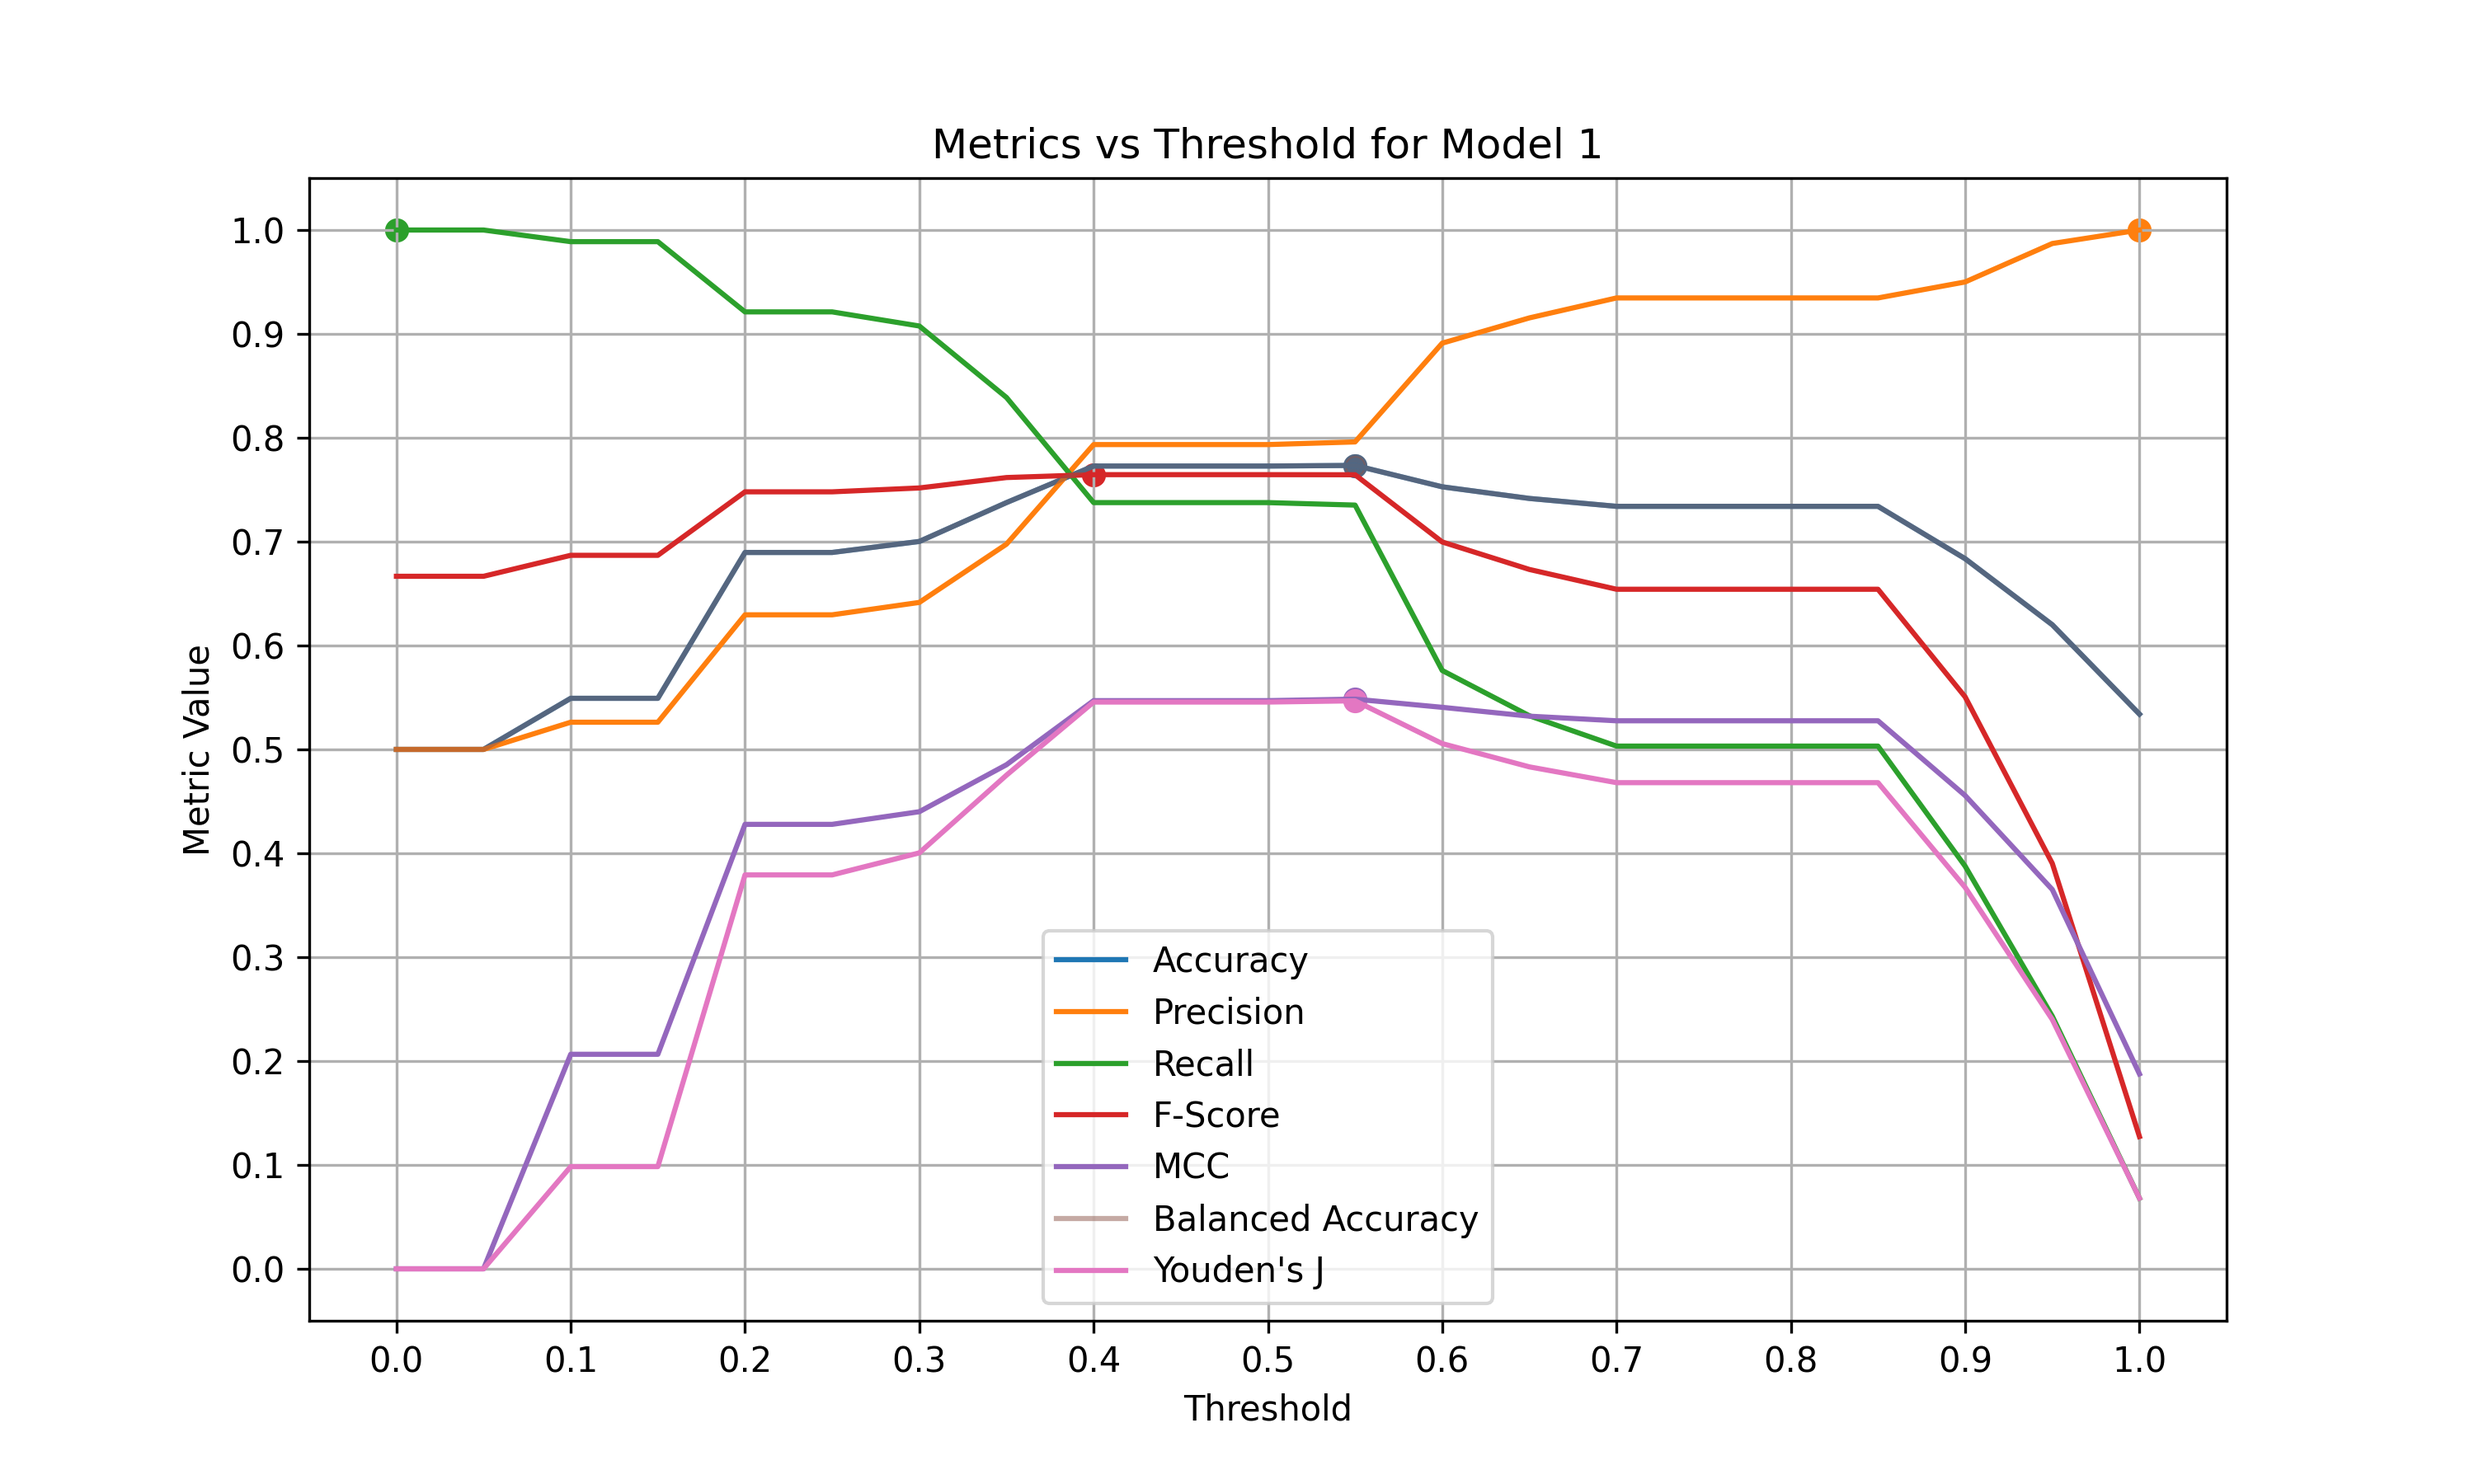
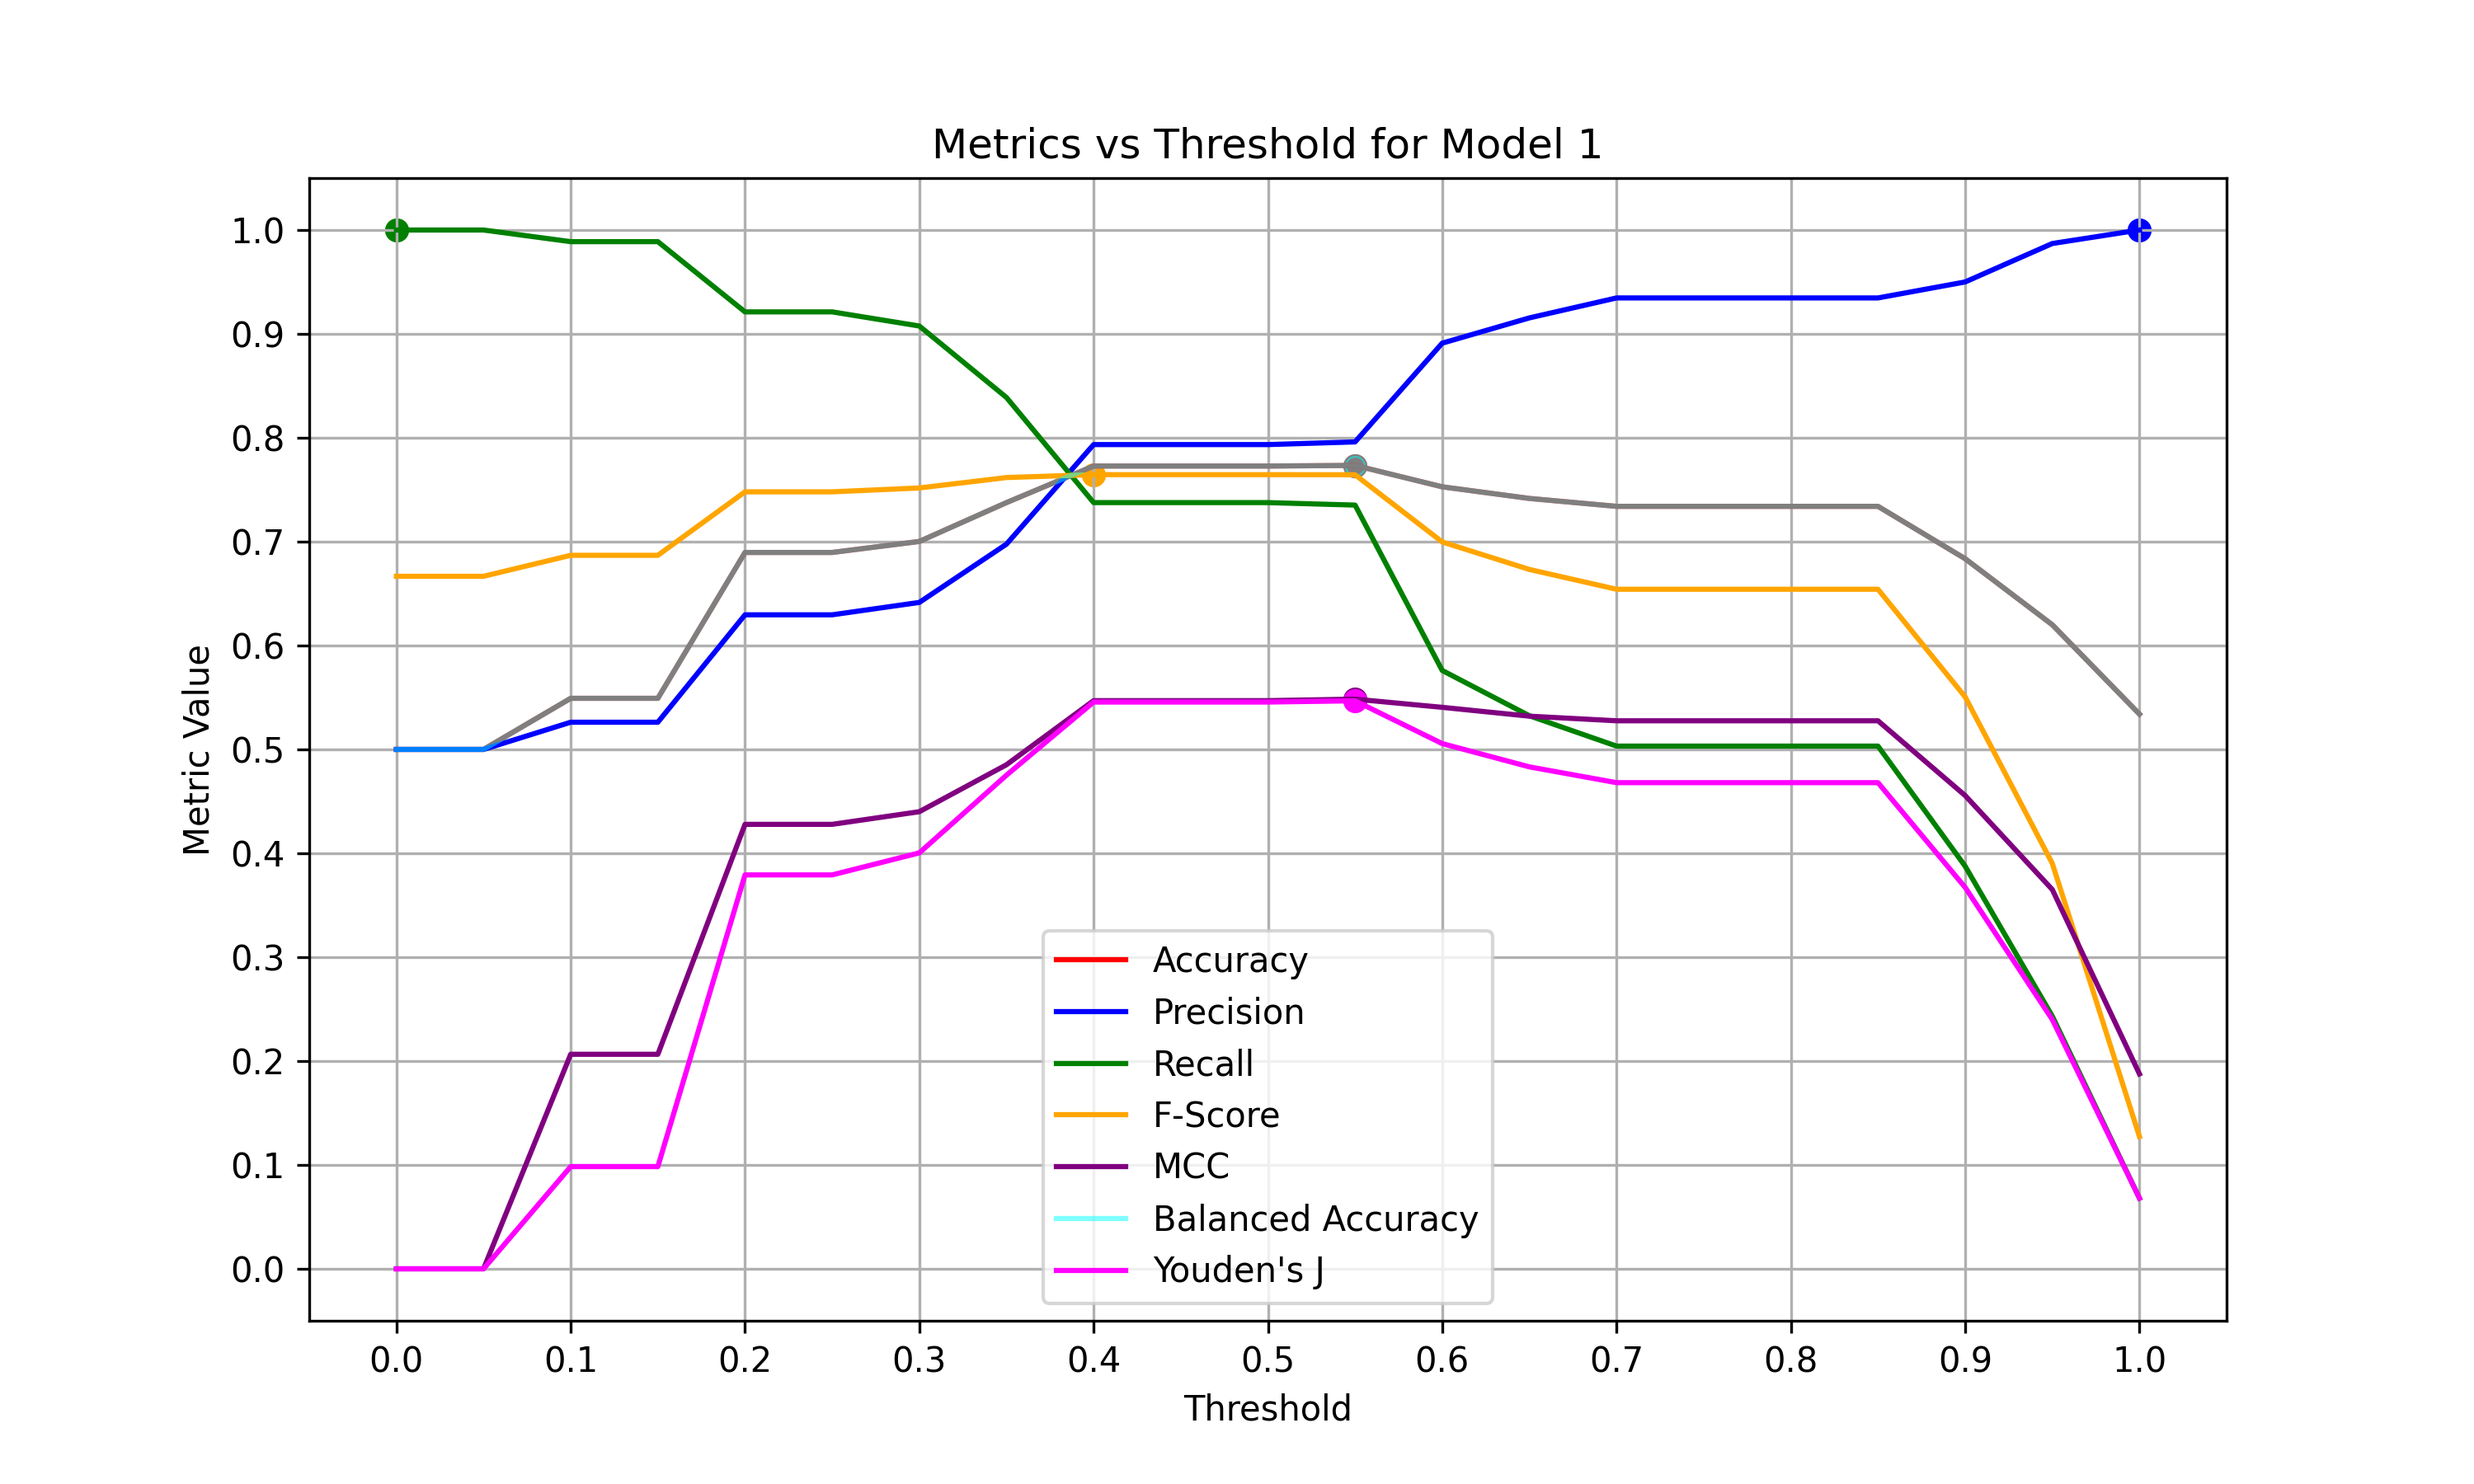
before updating optimal PR

diff --git a/лаб2/lab2.py b/лаб2/lab2.py
@@ -1,6 +1,7 @@
 import math
 
 import pandas as pd
+import numpy as np
 
 import matplotlib.pyplot as plt
 
@@ -258,36 +259,60 @@ auc_roc_m2 = auc(fpr_m2, tpr_m2)
 print("Area Under Curve for Receiver Operation Curve model 1:", auc_roc_m1)
 print("Area Under Curve for Receiver Operation Curve model 2:", auc_roc_m2)
 
-
-
 # 3rd. task pt. b
+
+colors = ['red', 'blue', 'green', 'orange', 'purple', 'cyan', 'magenta']
 
 plt.figure(figsize=(10, 6))
 ticks = get_x_values(0, 0.1)
 plt.xticks(ticks)
 plt.yticks(ticks)
 
-plt.plot(x_values, accuracy_m1, label='Accuracy', alpha=1)
+plt.plot(x_values, accuracy_m1, color=colors[0], label='Accuracy', alpha=1)
+plt.plot(x_values, precision_m1, color=colors[1], label='Precision')
+plt.plot(x_values, recall_m1, color=colors[2], label='Recall')
+plt.plot(x_values, f_scores_m1, color=colors[3], label='F-Score')
+plt.plot(x_values, mcc_m1, color=colors[4], label='MCC')
+plt.plot(x_values, balanced_acc_m1, color=colors[5], label='Balanced Accuracy', alpha=0.5)
+plt.plot(x_values, youden_j_m1, color=colors[6], label="Youden's J")
 
-plt.plot(x_values, precision_m1, label='Precision')
+max_accuracy_m1_value = max(accuracy_m1)
+max_accuracy_m1_threshold = x_values[accuracy_m1.index(max_accuracy_m1_value)]
+plt.scatter(max_accuracy_m1_threshold, max_accuracy_m1_value, marker='o', alpha=1, color=colors[0])
 
-plt.plot(x_values, recall_m1, label='Recall')
+max_precision_m1_value = max(precision_m1)
+max_precision_m1_threshold = x_values[precision_m1.index(max_precision_m1_value)]
+plt.scatter(max_precision_m1_threshold, max_precision_m1_value, marker='o', color=colors[1])
 
-plt.plot(x_values, f_scores_m1, label='F-Score')
+max_recall_m1_value = max(recall_m1)
+max_recall_m1_threshold = x_values[recall_m1.index(max_recall_m1_value)]
+plt.scatter(max_recall_m1_threshold, max_recall_m1_value, marker='o', color=colors[2])
 
-plt.plot(x_values, mcc_m1, label='MCC')
+max_f_scores_m1_value = max(f_scores_m1)
+max_f_scores_m1_threshold = x_values[f_scores_m1.index(max_f_scores_m1_value)]
+plt.scatter(max_f_scores_m1_threshold, max_f_scores_m1_value, marker='o', color=colors[3])
 
-plt.plot(x_values, balanced_acc_m1, label='Balanced Accuracy', alpha = 0.5)
+max_mcc_m1_value = max(mcc_m1)
+max_mcc_m1_threshold = x_values[mcc_m1.index(max_mcc_m1_value)]
+plt.scatter(max_mcc_m1_threshold, max_mcc_m1_value, marker='o', color=colors[4])
 
-plt.plot(x_values, youden_j_m1, label="Youden's J")
+max_balanced_acc_m1_value = max(balanced_acc_m1)
+max_balanced_acc_m1_threshold = x_values[balanced_acc_m1.index(max_balanced_acc_m1_value)]
+plt.scatter(max_balanced_acc_m1_threshold, max_balanced_acc_m1_value, marker='o', alpha=0.5, color=colors[5])
 
-plt.scatter(x_values[accuracy_m1.index(max(accuracy_m1))], max(accuracy_m1), marker='o', alpha = 1)
-plt.scatter(x_values[precision_m1.index(max(precision_m1))], max(precision_m1), marker='o')
-plt.scatter(x_values[recall_m1.index(max(recall_m1))], max(recall_m1), marker='o')
-plt.scatter(x_values[f_scores_m1.index(max(f_scores_m1))], max(f_scores_m1), marker='o')
-plt.scatter(x_values[mcc_m1.index(max(mcc_m1))], max(mcc_m1), marker='o')
-plt.scatter(x_values[balanced_acc_m1.index(max(balanced_acc_m1))], max(balanced_acc_m1), marker='o', alpha = 0.5)
-plt.scatter(x_values[youden_j_m1.index(max(youden_j_m1))], max(youden_j_m1), marker='o')
+max_youden_j_m1_value = max(youden_j_m1)
+max_youden_j_m1_threshold = x_values[youden_j_m1.index(max_youden_j_m1_value)]
+plt.scatter(max_youden_j_m1_threshold, max_youden_j_m1_value, marker='o', color=colors[6])
+
+m1_optimal_thrasholds = {
+    'Accuracy': max_accuracy_m1_threshold,
+    'Precision': max_precision_m1_threshold,
+    'Recall': max_recall_m1_threshold,
+    'F-Scores': max_f_scores_m1_threshold,
+    'MCC': max_mcc_m1_threshold,
+    'Balanced Accuracy': max_balanced_acc_m1_threshold,
+    'Youden`s J': max_youden_j_m1_threshold
+}
 
 plt.xlabel('Threshold')
 plt.ylabel('Metric Value')
@@ -305,27 +330,51 @@ ticks = get_x_values(0, 0.1)
 plt.xticks(ticks)
 plt.yticks(ticks)
 
-plt.plot(x_values, accuracy_m2, label='Accuracy', alpha = 1)
+plt.plot(x_values, accuracy_m2, color=colors[0], label='Accuracy', alpha=1)
+plt.plot(x_values, precision_m2, color=colors[1], label='Precision')
+plt.plot(x_values, recall_m2, color=colors[2], label='Recall')
+plt.plot(x_values, f_scores_m2, color=colors[3], label='F-Score')
+plt.plot(x_values, mcc_m2, color=colors[4], label='MCC')
+plt.plot(x_values, balanced_acc_m2, color=colors[5], label='Balanced Accuracy', alpha=0.5)
+plt.plot(x_values, youden_j_m2, color=colors[6], label="Youden's J")
 
-plt.plot(x_values, precision_m2, label='Precision')
+max_accuracy_m2_value = max(accuracy_m2)
+max_accuracy_m2_threshold = x_values[accuracy_m2.index(max_accuracy_m2_value)]
+plt.scatter(max_accuracy_m2_threshold, max_accuracy_m2_value, marker='o', alpha=1, color=colors[0])
 
-plt.plot(x_values, recall_m2, label='Recall')
+max_precision_m2_value = max(precision_m2)
+max_precision_m2_threshold = x_values[precision_m2.index(max_precision_m2_value)]
+plt.scatter(max_precision_m2_threshold, max_precision_m2_value, marker='o', color=colors[1])
 
-plt.plot(x_values, f_scores_m2, label='F-Score')
+max_recall_m2_value = max(recall_m2)
+max_recall_m2_threshold = x_values[recall_m2.index(max_recall_m2_value)]
+plt.scatter(max_recall_m2_threshold, max_recall_m2_value, marker='o', color=colors[2])
 
-plt.plot(x_values, mcc_m2, label='MCC')
+max_f_scores_m2_value = max(f_scores_m2)
+max_f_scores_m2_threshold = x_values[f_scores_m2.index(max_f_scores_m2_value)]
+plt.scatter(max_f_scores_m2_threshold, max_f_scores_m2_value, marker='o', color=colors[3])
 
-plt.plot(x_values, balanced_acc_m2, label='Balanced Accuracy', alpha = 0.5)
+max_mcc_m2_value = max(mcc_m2)
+max_mcc_m2_threshold = x_values[mcc_m2.index(max_mcc_m2_value)]
+plt.scatter(max_mcc_m2_threshold, max_mcc_m2_value, marker='o', color=colors[4])
 
-plt.plot(x_values, youden_j_m2, label="Youden's J")
+max_balanced_acc_m2_value = max(balanced_acc_m2)
+max_balanced_acc_m2_threshold = x_values[balanced_acc_m2.index(max_balanced_acc_m2_value)]
+plt.scatter(max_balanced_acc_m2_threshold, max_balanced_acc_m2_value, marker='o', alpha=0.5, color=colors[5])
 
-plt.scatter(x_values[accuracy_m2.index(max(accuracy_m2))], max(accuracy_m2), marker='o', alpha = 1)
-plt.scatter(x_values[precision_m2.index(max(precision_m2))], max(precision_m2), marker='o')
-plt.scatter(x_values[recall_m2.index(max(recall_m2))], max(recall_m2), marker='o')
-plt.scatter(x_values[f_scores_m2.index(max(f_scores_m2))], max(f_scores_m2), marker='o')
-plt.scatter(x_values[mcc_m2.index(max(mcc_m2))], max(mcc_m2), marker='o')
-plt.scatter(x_values[balanced_acc_m2.index(max(balanced_acc_m2))], max(balanced_acc_m2), marker='o', alpha = 0.5)
-plt.scatter(x_values[youden_j_m2.index(max(youden_j_m2))], max(youden_j_m2), marker='o')
+max_youden_j_m2_value = max(youden_j_m2)
+max_youden_j_m2_threshold = x_values[youden_j_m2.index(max_youden_j_m2_value)]
+plt.scatter(max_youden_j_m2_threshold, max_youden_j_m2_value, marker='o', color=colors[6])
+
+m2_optimal_thrasholds = {
+    'Accuracy': max_accuracy_m2_threshold,
+    'Precision': max_precision_m2_threshold,
+    'Recall': max_recall_m2_threshold,
+    'F-Scores': max_f_scores_m2_threshold,
+    'MCC': max_mcc_m2_threshold,
+    'Balanced Accuracy': max_balanced_acc_m2_threshold,
+    'Youden`s J': max_youden_j_m2_threshold
+}
 
 plt.xlabel('Threshold')
 plt.ylabel('Metric Value')
@@ -334,4 +383,108 @@ plt.legend()
 
 plt.grid(True)
 plt.savefig('metrics_plot_model2.png', dpi=300)
+plt.show()
+
+# 3rd. task pt. c
+
+fig, ax = plt.subplots(figsize=(10, 6))
+
+class_0_objects_m1 = df.loc[df['GT'] == 0, 'Model_1_1']
+class_1_objects_m1 = df.loc[df['GT'] == 1, 'Model_1_1']
+
+ax.hist(class_0_objects_m1, bins=20, color='blue', alpha=0.5, label='Class 0 Objects')
+
+ax.hist(class_1_objects_m1, bins=20, color='red', alpha=0.5, label='Class 1 Objects')
+
+ax.set_title('Object Counts vs Classifier Score for Model 1')
+ax.set_xlabel('Classifier Score')
+ax.set_ylabel('Object Count')
+
+for el, color in zip(m1_optimal_thrasholds.items(), colors):
+    ax.axvline(x=el[1], linestyle='--', label=el[0], color=color)
+
+ax.legend()
+plt.savefig('count_objects_by_score_m1.png', dpi=300)
+plt.show()
+
+############################
+
+fig, ax = plt.subplots(figsize=(10, 6))
+
+class_0_objects_m2 = df.loc[df['GT'] == 0, 'Model_2_1']
+class_1_objects_m2 = df.loc[df['GT'] == 1, 'Model_2_1']
+
+ax.hist(class_0_objects_m2, bins=20, color='blue', alpha=0.5, label='Class 0 Objects')
+
+ax.hist(class_1_objects_m2, bins=20, color='red', alpha=0.5, label='Class 1 Objects')
+
+ax.set_title('Object Counts vs Classifier Score for Model 2')
+ax.set_xlabel('Classifier Score')
+ax.set_ylabel('Object Count')
+
+for el, color in zip(m2_optimal_thrasholds.items(), colors):
+    ax.axvline(x=el[1], linestyle='--', label=el[0], color=color)
+
+ax.legend()
+plt.savefig('count_objects_by_score_m2.png', dpi=300)
+plt.show()
+
+# 3rd. task pt. d
+
+# RV
+
+plt.plot(recall_for_curve_m1, precision_for_curve_m1, label='Model_1_1')
+# ideal_points = np.ones(len(recall_for_curve_m1), dtype=int)
+# optimal_idx_m1 = np.argmin(math.sqrt((recall_for_curve_m1 - ideal_points) ** 2 + (precision_for_curve_m1 - ideal_points) ** 2))
+optimal_idx_m1 = np.argmax(precision_for_curve_m1 + recall_for_curve_m1)
+optimal_threshold_m1 = thresholds_m1[optimal_idx_m1]
+plt.scatter(recall_for_curve_m1[optimal_idx_m1],
+            precision_for_curve_m1[optimal_idx_m1])
+plt.annotate(round(optimal_threshold_m1, 2),
+             (recall_for_curve_m1[optimal_idx_m1],
+              precision_for_curve_m1[optimal_idx_m1]))
+
+plt.plot(recall_for_curve_m2, precision_for_curve_m2, label='Model_2_1')
+optimal_idx_m2 = np.argmax(precision_for_curve_m2 + recall_for_curve_m2)
+optimal_threshold_m2 = thresholds_m2[optimal_idx_m2]
+plt.scatter(recall_for_curve_m2[optimal_idx_m2],
+            precision_for_curve_m2[optimal_idx_m2])
+plt.annotate(round(optimal_threshold_m2, 2),
+             (recall_for_curve_m2[optimal_idx_m2],
+              precision_for_curve_m2[optimal_idx_m2]))
+
+plt.xlabel('Recall')
+plt.ylabel('Precision')
+plt.title('Precision-Recall Curve')
+plt.legend()
+plt.grid(True)
+plt.savefig('PR_curves.png', dpi=300)
+plt.show()
+
+# ROC
+
+plt.plot(fpr_m1, tpr_m1, label='Model_1_1')
+optimal_idx_m1 = np.argmax(tpr_m1 - fpr_m1)
+optimal_threshold_m1 = thresholds_m1[optimal_idx_m1]
+plt.scatter(fpr_m1[optimal_idx_m1],
+            tpr_m1[optimal_idx_m1])
+plt.annotate(round(optimal_threshold_m1, 2),
+             (fpr_m1[optimal_idx_m1],
+              tpr_m1[optimal_idx_m1]))
+
+plt.plot(fpr_m2, tpr_m2, label='Model_2_1')
+optimal_idx_m2 = np.argmax(tpr_m2 - fpr_m2)
+optimal_threshold_m2 = thresholds_m2[optimal_idx_m2]
+plt.scatter(fpr_m2[optimal_idx_m2],
+            tpr_m2[optimal_idx_m2])
+plt.annotate(round(optimal_threshold_m2, 2),
+             (fpr_m2[optimal_idx_m2],
+              tpr_m2[optimal_idx_m2]))
+
+plt.xlabel('False Positive Rate')
+plt.ylabel('True Positive Rate')
+plt.title('ROC-curve')
+plt.legend()
+plt.grid(True)
+plt.savefig('ROC-curves.png', dpi=300)
 plt.show()
